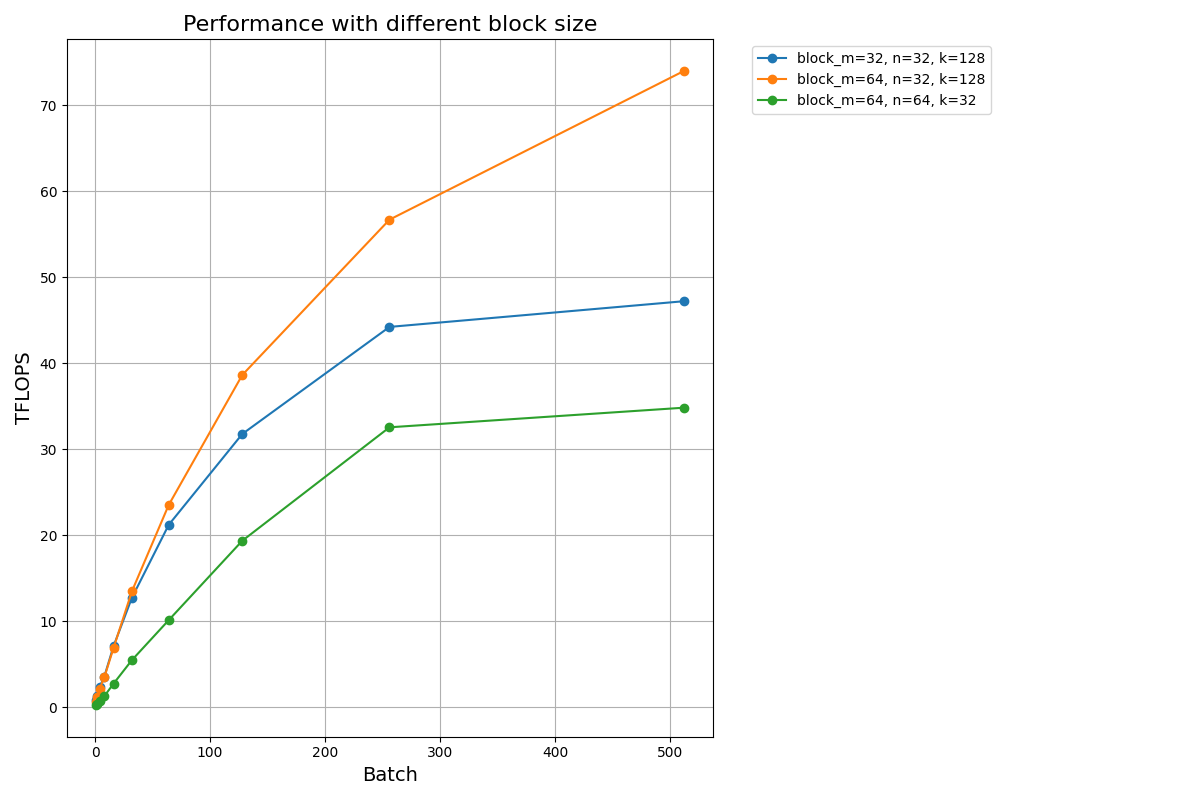
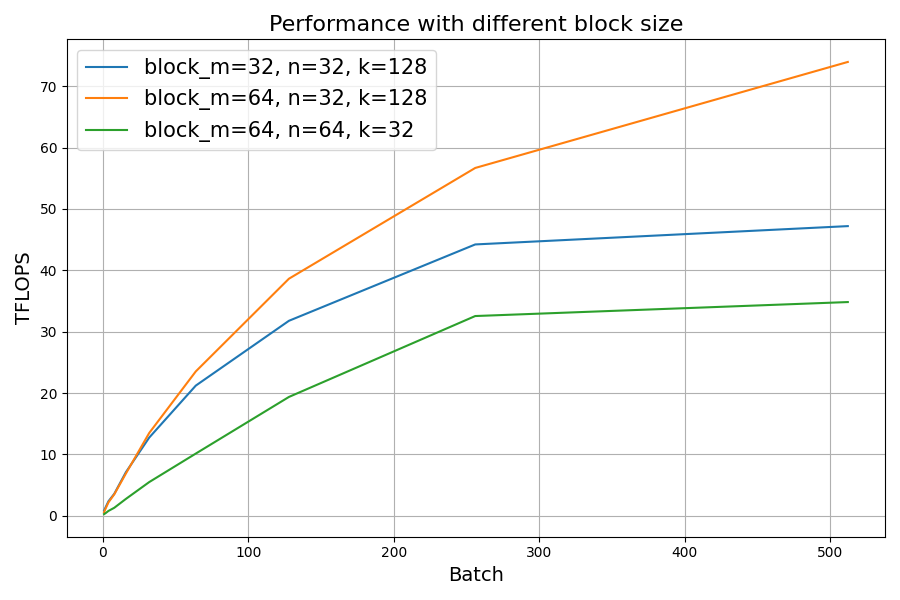
fa

diff --git a/kernels/triton/inference/col_major_moe_gemm/plot.py b/kernels/triton/inference/col_major_moe_gemm/plot.py
@@ -1,7 +1,8 @@
 import matplotlib.pyplot as plt
 import pandas as pd
-
+from matplotlib import rcParams
 # 读取 CSV 文件
+rcParams['font.family'] = 'Times New Roman'
 file_path = "./test.csv"
 data = pd.read_csv(file_path)
 
@@ -23,9 +24,9 @@ legend_labels = [
 ]
 
 # 绘制折线图
-plt.figure(figsize=(12, 8))
+plt.figure(figsize=(9, 6))
 for col, label in zip(selected_columns, legend_labels):
-    plt.plot(x, data[col], marker='o', label=label)
+    plt.plot(x, data[col], label=label)
 
 # 添加标题和标签
 plt.title('Performance with different block size', fontsize=16)
@@ -33,13 +34,13 @@ plt.xlabel('Batch', fontsize=14)
 plt.ylabel('TFLOPS', fontsize=14)
 
 # 显示图例在绘图右侧
-plt.legend(loc='upper left', bbox_to_anchor=(1.05, 1), fontsize=10)
+plt.legend(loc='upper left', fontsize=15)
 
 # 显示网格
 plt.grid(True)
 
 # 调整布局以适应图例
-plt.tight_layout(rect=[0, 0, 0.85, 1])
+plt.tight_layout()
 
 # 保存图形
-plt.savefig("test.png")
+plt.savefig("test.pdf")
